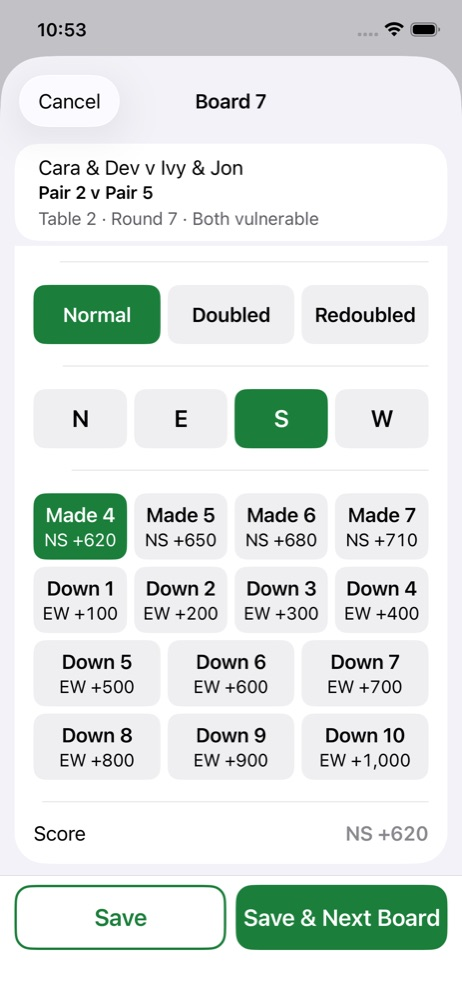
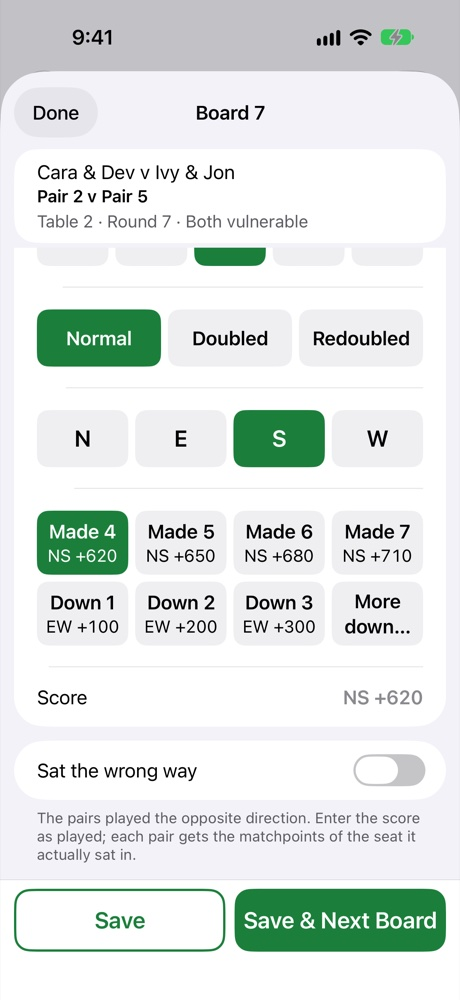
Support pages: ☰ menu, Complete Match, current iPhone screenshots
Settings is now under ☰ at the top right (iOS B131, Android A16): text size,
Contact Support and Help say so. "Marked a match as completed" is now
"completed a match" (Complete Match / Reopen Match). The two iPhone images on
the home page show the current app (Done on the result sheet, ☰ on Results).

diff --git a/ios/index.html b/ios/index.html
@@ -14,7 +14,7 @@
 <div class="contact">
 <h2 style="margin-top:0">Support</h2>
 <p>Questions, problems or suggestions? Email <a href="mailto:bridgescoringapp@gmail.com?subject=Bridge%20Scores%20support">bridgescoringapp@gmail.com</a>.</p>
-<p style="margin-bottom:0">In the app, <strong>Settings → Contact Support</strong> starts the email for you and adds the app version, your iOS version and your device, so you only need to describe what happened.</p>
+<p style="margin-bottom:0">In the app, <strong>☰ → Settings → Contact Support</strong> starts the email for you and adds the app version, your iOS version and your device, so you only need to describe what happened.</p>
 </div>
 
 <h2>Common questions</h2>
@@ -23,12 +23,12 @@ Open the match, go to the <strong>Movement</strong> tab and tap <strong>Print</s
 <p><strong>I'm upgrading from version 1.2. Where are my matches?</strong><br>
 Your saved matches come over to 2.0 by themselves the first time you open it, and appear in the list, newest first. If any can't be brought over, the app tells you and offers to send the details to us so we can help.</p>
 <p><strong>Where did the tabs and SP codes from version 1.2 go?</strong><br>
-Team Names is now <strong>Pairs</strong>, Table Movement is now <strong>Movement</strong> and Input Scores is now <strong>Scores</strong>. The special scores are buttons now: R is the <strong>Sat the wrong way</strong> switch; A, T and B are <strong>Other → Director award</strong>; O is automatic (with an odd number of pairs, the app sits a pair out for you). In the app, <strong>Settings → Help</strong> has the same list under “Coming from version 1.2”.</p>
+Team Names is now <strong>Pairs</strong>, Table Movement is now <strong>Movement</strong> and Input Scores is now <strong>Scores</strong>. The special scores are buttons now: R is the <strong>Sat the wrong way</strong> switch; A, T and B are <strong>Other → Director award</strong>; O is automatic (with an odd number of pairs, the app sits a pair out for you). In the app, <strong>☰ → Settings → Help</strong> has the same list under “Coming from version 1.2”.</p>
 <p><strong>How do I make the text bigger?</strong><br>
-Tap <strong>Settings</strong> at the top of the screen. Under <strong>Text Size</strong>, use the slider or the <strong>A</strong> buttons. <strong>Use iPhone Setting</strong> (or iPad) goes back to your device's own size.</p>
+Tap <strong>☰</strong> at the top right, then <strong>Settings</strong>. Under <strong>Text Size</strong>, use the slider or the <strong>A</strong> buttons. <strong>Use iPhone Setting</strong> (or iPad) goes back to your device's own size.</p>
 <p><strong>How do I enter a score?</strong><br>
 On the <strong>Scores</strong> tab, tap a table. Choose <strong>NS +</strong> or <strong>EW +</strong> and type the score as it's written on the traveler, or tap <strong>Contract</strong> and tap the contract and the result. <strong>Save &amp; Next Table</strong> goes straight on to the next table.</p>
-<p><strong>I marked a match as completed by mistake.</strong><br>
+<p><strong>I completed a match by mistake.</strong><br>
 Open it and tap <strong>Reopen Match</strong> at the bottom of Scores, Pairs or Results.</p>
 
 <footer><a href="../">Duplicate Bridge Scoring</a> · <a href="privacy.html">Privacy Policy</a> · <a href="accessibility.html">Accessibility</a></footer>

diff --git a/android/index.html b/android/index.html
@@ -14,19 +14,19 @@
 <div class="contact">
 <h2 style="margin-top:0">Support</h2>
 <p>Questions, problems or suggestions? Email <a href="mailto:bridgescoringapp@gmail.com?subject=Bridge%20Scores%20support">bridgescoringapp@gmail.com</a>.</p>
-<p style="margin-bottom:0">In the app, <strong>Settings → Contact Support</strong> starts the email for you and adds the app version, your Android version and your phone or tablet model, so you only need to describe what happened.</p>
+<p style="margin-bottom:0">In the app, <strong>☰ → Settings → Contact Support</strong> starts the email for you and adds the app version, your Android version and your phone or tablet model, so you only need to describe what happened.</p>
 </div>
 
 <h2>Common questions</h2>
 <p><strong>How do I print table cards and travelers?</strong><br>
 Open the match, go to the <strong>Movement</strong> tab and tap <strong>Print</strong>. <strong>Table cards</strong> prints one page for each table. <strong>Travelers</strong> prints one for each board, four or two to a page, to cut apart, with the pairs already filled in. Enter the pairs' names on the <strong>Pairs</strong> tab first and they appear on everything you print. You can print to any printer your phone can use, or share a PDF.</p>
 <p><strong>How do I make the text bigger?</strong><br>
-Tap <strong>Settings</strong> at the top of the screen. Under <strong>Text Size</strong>, use the slider or the <strong>A</strong> buttons. <strong>Use Phone Setting</strong> (or Tablet) goes back to your device's own font size.</p>
+Tap <strong>☰</strong> at the top right, then <strong>Settings</strong>. Under <strong>Text Size</strong>, use the slider or the <strong>A</strong> buttons. <strong>Use Phone Setting</strong> (or Tablet) goes back to your device's own font size.</p>
 <p><strong>How do I enter a score?</strong><br>
 On the <strong>Scores</strong> tab, tap a table. Choose <strong>NS +</strong> or <strong>EW +</strong> and type the score as it's written on the traveler, or tap <strong>Contract</strong> and tap the contract and the result. <strong>Save &amp; Next Table</strong> goes straight on to the next table.</p>
 <p><strong>Are my matches backed up?</strong><br>
 Your matches are stored on your phone or tablet. If Android backup is turned on, they're included in your device's backup and come back when you set up a new phone from it.</p>
-<p><strong>I marked a match as completed by mistake.</strong><br>
+<p><strong>I completed a match by mistake.</strong><br>
 Open it and tap <strong>Reopen Match</strong> at the bottom of Scores, Pairs or Results.</p>
 
 <footer><a href="../">Duplicate Bridge Scoring</a> · <a href="privacy.html">Privacy Policy</a> · <a href="accessibility.html">Accessibility</a></footer>

diff --git a/android/accessibility.html b/android/accessibility.html
@@ -29,7 +29,7 @@
 <p>The app uses the same colors as the iPhone version, where text meets a contrast ratio of at least 4.5:1. Nothing is shown by color alone: vulnerability is written out in words, and on the printouts it is marked with a black “VUL” tag.</p>
 
 <h2>Feedback</h2>
-<p>If something in the app doesn't work with the way you use your phone or tablet, please tell us: <a href="mailto:bridgescoringapp@gmail.com?subject=Bridge%20Scores%20accessibility">bridgescoringapp@gmail.com</a>. <strong>Settings → Contact Support</strong> in the app adds your device details for you.</p>
+<p>If something in the app doesn't work with the way you use your phone or tablet, please tell us: <a href="mailto:bridgescoringapp@gmail.com?subject=Bridge%20Scores%20accessibility">bridgescoringapp@gmail.com</a>. <strong>☰ → Settings → Contact Support</strong> in the app adds your device details for you.</p>
 
 <footer><a href="index.html">Duplicate Bridge Scoring for Android Support</a> · <a href="privacy.html">Privacy Policy</a></footer>
 </body>

diff --git a/ios/accessibility.html b/ios/accessibility.html
@@ -35,7 +35,7 @@
 <p>With Reduce Motion on, the board menu's arrow and other changes happen instantly, without animation.</p>
 
 <h2>Feedback</h2>
-<p>If something in the app doesn't work with the way you use your iPhone or iPad, please tell us: <a href="mailto:bridgescoringapp@gmail.com?subject=Bridge%20Scores%20accessibility">bridgescoringapp@gmail.com</a>. <strong>Settings → Contact Support</strong> in the app adds your device details for you.</p>
+<p>If something in the app doesn't work with the way you use your iPhone or iPad, please tell us: <a href="mailto:bridgescoringapp@gmail.com?subject=Bridge%20Scores%20accessibility">bridgescoringapp@gmail.com</a>. <strong>☰ → Settings → Contact Support</strong> in the app adds your device details for you.</p>
 
 <footer><a href="index.html">Duplicate Bridge Scoring Support</a> · <a href="privacy.html">Privacy Policy</a></footer>
 </body>

diff --git a/index.html b/index.html
@@ -79,7 +79,7 @@
 
 <div class="shots">
   <figure>
-    <img src="images/iphone-contract.jpg" width="462" height="1000" alt="iPhone: entering a result for Board 7 by contract, 4 hearts by South made 4, with the score under each result button">
+    <img src="images/iphone-contract.jpg" width="460" height="1000" alt="iPhone: entering a result for Board 7 by contract, by South, made 4, with the score under each result button">
     <figcaption>Enter the score, or the contract</figcaption>
   </figure>
   <figure>
